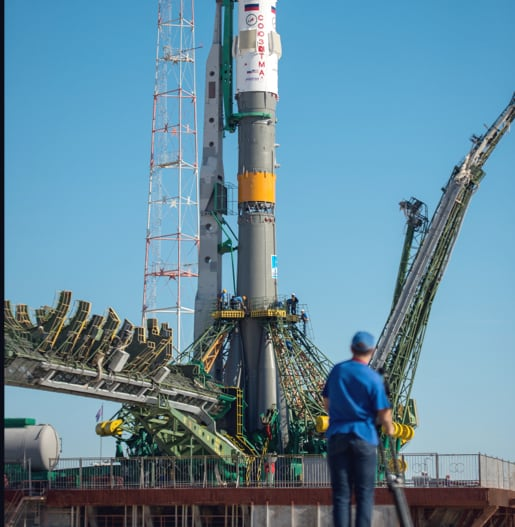
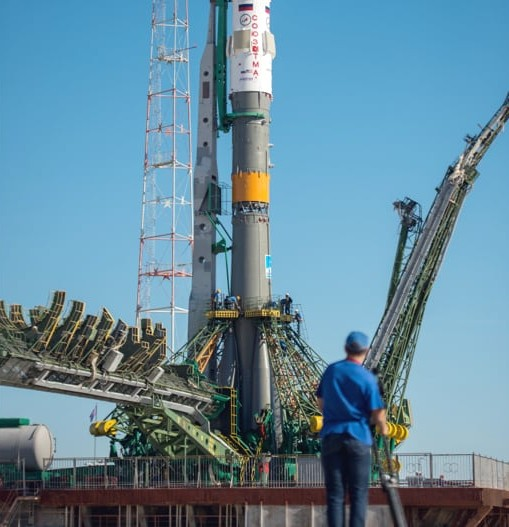
Fixing css

Changed region(s): [[0.0, 0.0, 0.9136, 1.0], [0.9136, 0.2732, 0.943, 0.3036], [0.8546, 0.9108, 0.8841, 0.9412]]

diff --git a/styles/style.css b/styles/style.css
@@ -174,7 +174,9 @@ body {
 #planet_img {
   -webkit-user-drag: none;
   border-radius: 50%;
-  animation: rotate-moon 7s linear infinite, shapes-around 7s linear infinite;
+  animation:
+    rotate-moon 7s linear infinite,
+    shapes-around 7s linear infinite;
 }
 
 @keyframes rotate-moon {
@@ -339,7 +341,9 @@ body {
 
 .crew_container {
   display: flex;
-  gap: 350px;
+  justify-content: space-between;
+  align-items: flex-end;
+  width: 100%;
 }
 
 .crew-head {
@@ -392,11 +396,23 @@ body {
 
 #crew_img {
   -webkit-user-drag: none;
+  max-height: 600px;
+  object-fit: contain;
+}
+
+.crew-img-ctn {
+  display: flex;
+  align-items: flex-end;
 }
 
 .crew-body-content {
   margin-top: 154px;
   margin-left: 200px;
+}
+
+.crew-body-img {
+  height: 390px;
+  width: 700px;
 }
 
 .crew-control-ctn {

diff --git a/index.html b/index.html
@@ -1,4 +1,4 @@
-<!DOCTYPE html>
+<!doctype html>
 <html lang="en">
   <head>
     <meta charset="UTF-8" />
@@ -26,7 +26,7 @@
       rel="stylesheet"
     />
     <!-- CSS -->
-    <link rel="stylesheet" href="../styles/style.css" />
+    <link rel="stylesheet" href="./styles/style.css" />
   </head>
   <body id="home-body">
     <nav>
